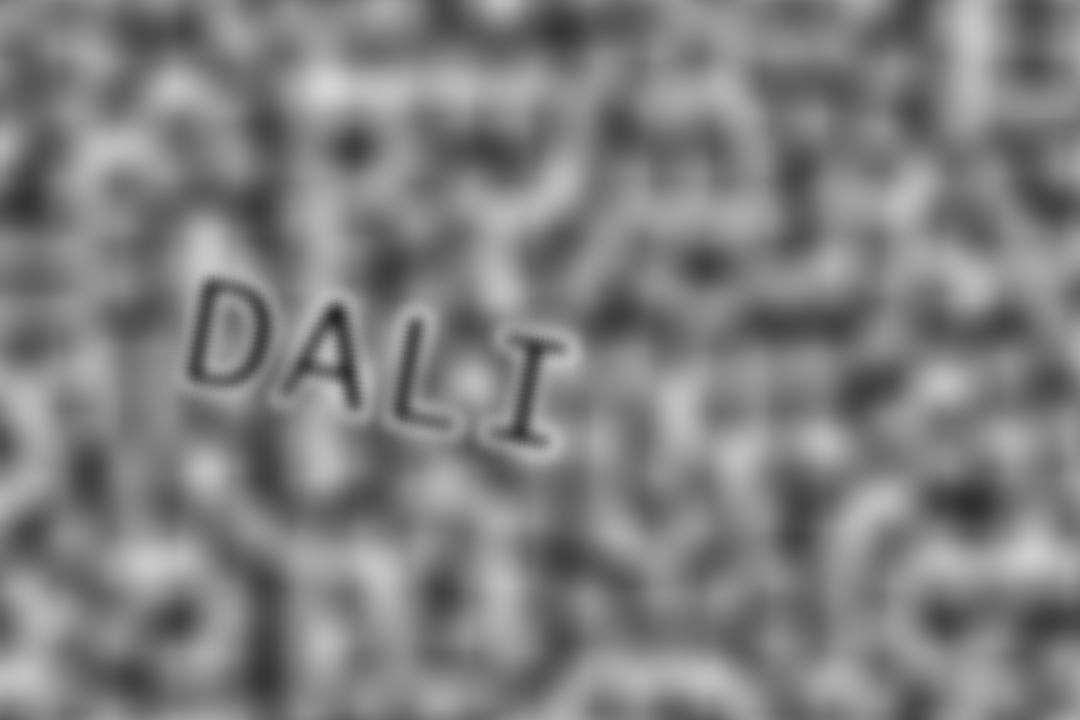
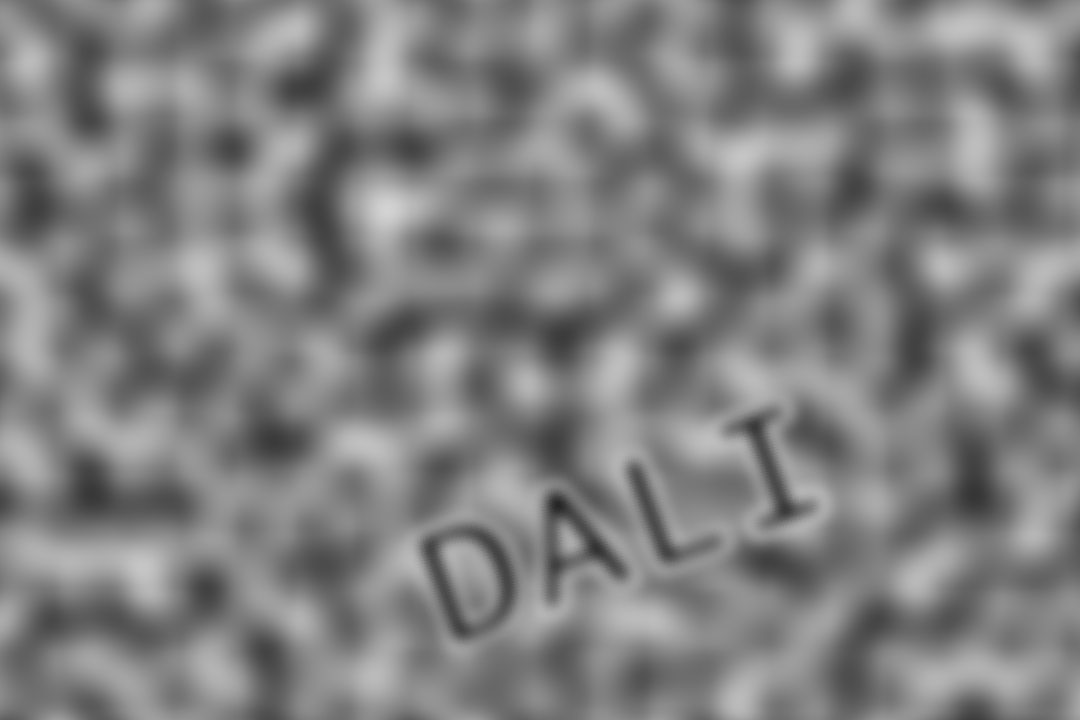
finalize text animation animation

diff --git a/untitled0.py b/untitled0.py
@@ -12,7 +12,7 @@ pygame.init()
 # Constants
 WIDTH, HEIGHT = 1920, 1080
 NUM_PARTICLES = 4000
-MICROPHONE_THRESHOLD = 0.5# Adjust as needed
+MICROPHONE_THRESHOLD = 1# Adjust as needed
 
 # Create a Pygame screen
 screen = pygame.display.set_mode((WIDTH, HEIGHT))
@@ -46,7 +46,7 @@ def audio_callback(indata, frames, time, status):
         print(status, flush=True)
     mic_data.extend(indata[:, 0])  # Extract the left channel data
 
-sd.InputStream(callback=audio_callback, channels=2, dtype=np.float32, samplerate=8000).start()
+sd.InputStream(callback=audio_callback, channels=2, dtype=np.float32, samplerate=4000).start()
 
 running = True
 while running:
@@ -58,7 +58,7 @@ while running:
              angle = random.uniform(-50, 50)
              key = event.unicode
              font = pygame.font.Font(None, random.randint(20, 180))
-             text = font.render(key.lower() ,True, (0, 0, 0),(60,100, 60))
+             text = font.render(key.lower() ,True, (0, 0, 0),(250,250, 250))
              rotated_text = pygame.transform.rotate(text, angle)
 
              # Get a random position within the screen boundaries
@@ -76,7 +76,7 @@ while running:
     gcolor = random.randint(5, 20)
     bcolor = random.randint(6, 20)
     background_color = (rcolor, gcolor, bcolor)
-    alpha_value = 50
+    alpha_value = 10
     # Set the alpha value (transparency)
     # Create a new surface with the desired background color and alpha
     background_surface = pygame.Surface(screen.get_size(), pygame.SRCALPHA)
@@ -118,9 +118,9 @@ while running:
             # Sample the grayscale value from the image at the normalized positions
             gray_value = images[i].get_at((int(normalized_x * image.get_width()), int(normalized_y * image.get_height()))).r / 255.0
             #gray_value = image.get_at((int(normalized_x * image.get_width()), int(normalized_y * image.get_height()))).r / 255.0
-            a =  7* math.pi * gray_value
-            x += 3* math.cos(a)
-            y += 3* math.sin(a)
+            a =  12* math.pi * gray_value
+            x += 1* math.cos(a)
+            y += 1* math.sin(a)
             particles[p]= (x,y)
             pygame.draw.circle(screen, color, (int(x), int(y)), 1.2)
      else :

diff --git a/pic genreation.py b/pic genreation.py
@@ -31,8 +31,8 @@ for i in range(NUM_IMAGES):
     noise_texture_image = pygame.image.load(os.path.join(noise_texture_dir, noise_texture_file))
 
     # Random position
-    x = random.randint(-100,150)
-    y = random.randint(-200 ,100)
+    x = random.randint(0,800)
+    y = random.randint(0 ,300)
     angle = random.uniform(-20, 20)
     # Random size
     scale_factor = random.uniform(0.5, 0.8)
